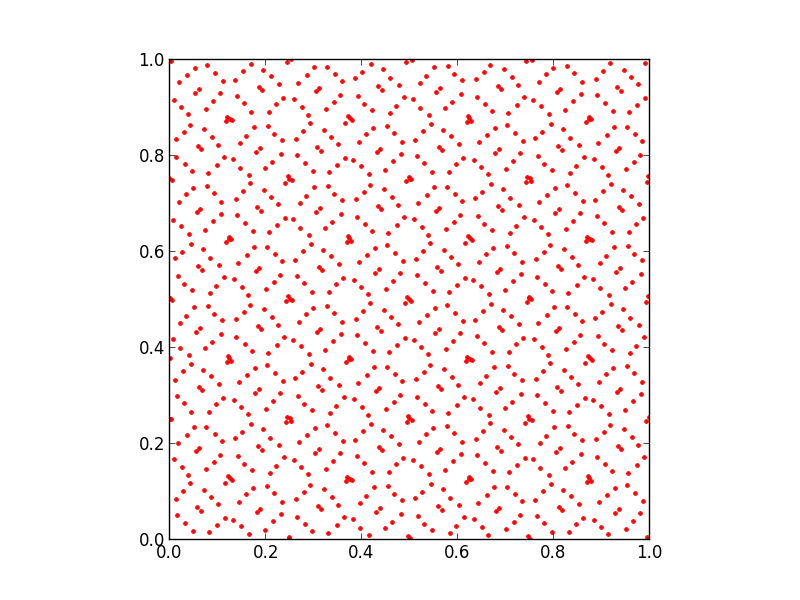
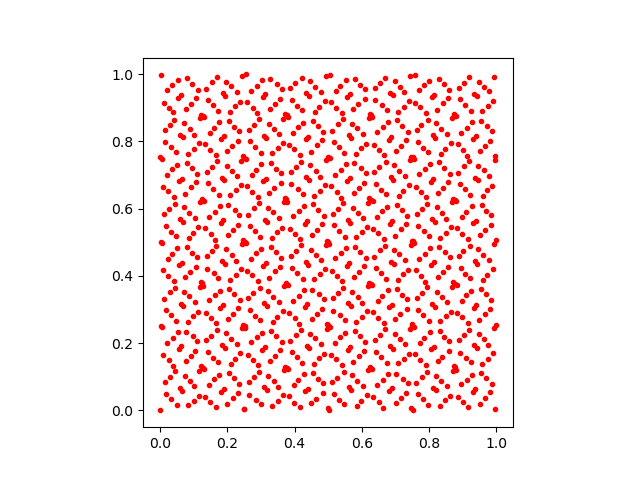
Start sequence at zero

Changed region(s): [[0.1562, 0.0938, 0.8438, 0.9375]]

diff --git a/README.md b/README.md
@@ -96,10 +96,9 @@ where `lb` and `ub` are arrays (or other iterables) of length `N`, giving
 the lower and upper bounds of the hypercube, respectively.   For example,
 `SobolSeq([-1,0,0],[1,3,2])` generates points in the box [-1,1]×[0,3]×[0,2].  (Although the generated points are `Float64` by default, in general the precision is determined by that of `lb` and `ub`.)
 
-If you know in advance the number `n` of points that you plan to
-generate, some authors suggest that better uniformity can be attained
-by first skipping the initial portion of the LDS. In particular,
-we skip 2ᵐ−1 for the largest `m` where `2ᵐ-1 ≤ n` (see [Joe and Kuo, 2003][joe03] for a similar suggestion).  This
+If you know in advance the number `n` of points that you plan to generate,
+some authors suggest that skipping the initial portion of the LDS.
+In particular, we skip 2ᵐ points for the largest `m` where `2ᵐ ≤ n` (see [Joe and Kuo, 2003][joe03] for a similar suggestion).  This
 facility is provided by:
 ```julia
 skip(s, n)
@@ -111,7 +110,14 @@ Skipping exactly `n` elements is also possible:
 skip(s, n, exact=true)
 ```
 
+Note, however, that generally it is not recommended to skip (arbitrary)
+number of points since this can ruin the digital net property and lead
+to worse convergence (as illustrated in [Owen, 2021](https://arxiv.org/abs/2008.08051) for the
+common proactice of dropping the initial point).
+
 `skip` returns `s`, so you can simply do `s = skip(SobolSeq(N))` or similar.
+
+Note, however, that generally it is not recommended to skip arbitrary
 
 ## Example
 
@@ -123,9 +129,12 @@ the [0,1]×[0,1] unit square!
 using Sobol
 using PyPlot
 s = SobolSeq(2)
-p = reduce(hcat, next!(s) for i = 1:1024)'
+p = Matrix{Float64}(undef, 2, 1024)
+for x in eachcol(p)
+   next!(s, x)
+end
 subplot(111, aspect="equal")
-plot(p[:,1], p[:,2], "r.")
+plot(p[1, :], p[2, :], "r.")
 ```
 ![plot of 1024 points of a 2d Sobol sequence](sobol1024.png "1024 points of a 2d Sobol sequence")
 
